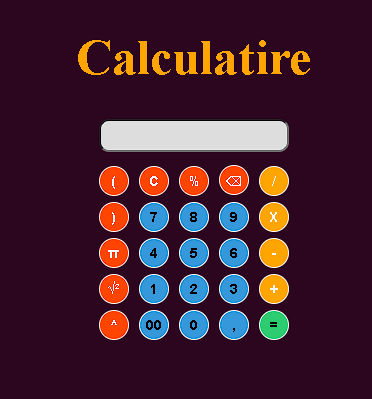
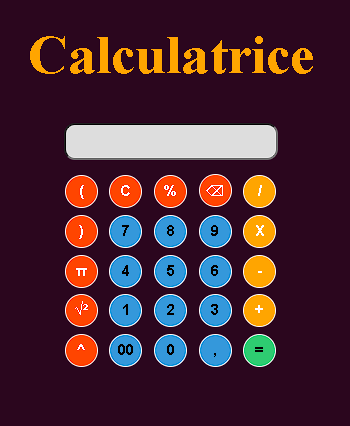
readmee

Changed region(s): [[0.1714, 0.2707, 0.8, 0.8722], [0.0857, 0.0602, 0.9143, 0.2105]]

diff --git a/index.html b/index.html
@@ -8,7 +8,7 @@
     <title>Calculatrice</title>
 </head>
 <body>
-    <h1>Calculatire</h1>
+    <h1>Calculatrice</h1>
     <div class="container">
         <input type="text" id="display" readonly>
         <div class="button">

diff --git a/README.md b/README.md
@@ -12,8 +12,8 @@ Cette calculatrice est réalisée dans le cadre d'un exercice **JavaScript** dur
 
 ## Code :
 
-[HTML](https://github.com/cebe0210/calculator/blob/main/index.html "code html")
+[HTML](index.html "code html")
 
-[CSS](style.css)
+[CSS](style.css "Code css")
 
-[JavaScript](https://github.com/cebe0210/calculator/blob/main/index.html)
+[JavaScript](script.js "Code JavaScript")
